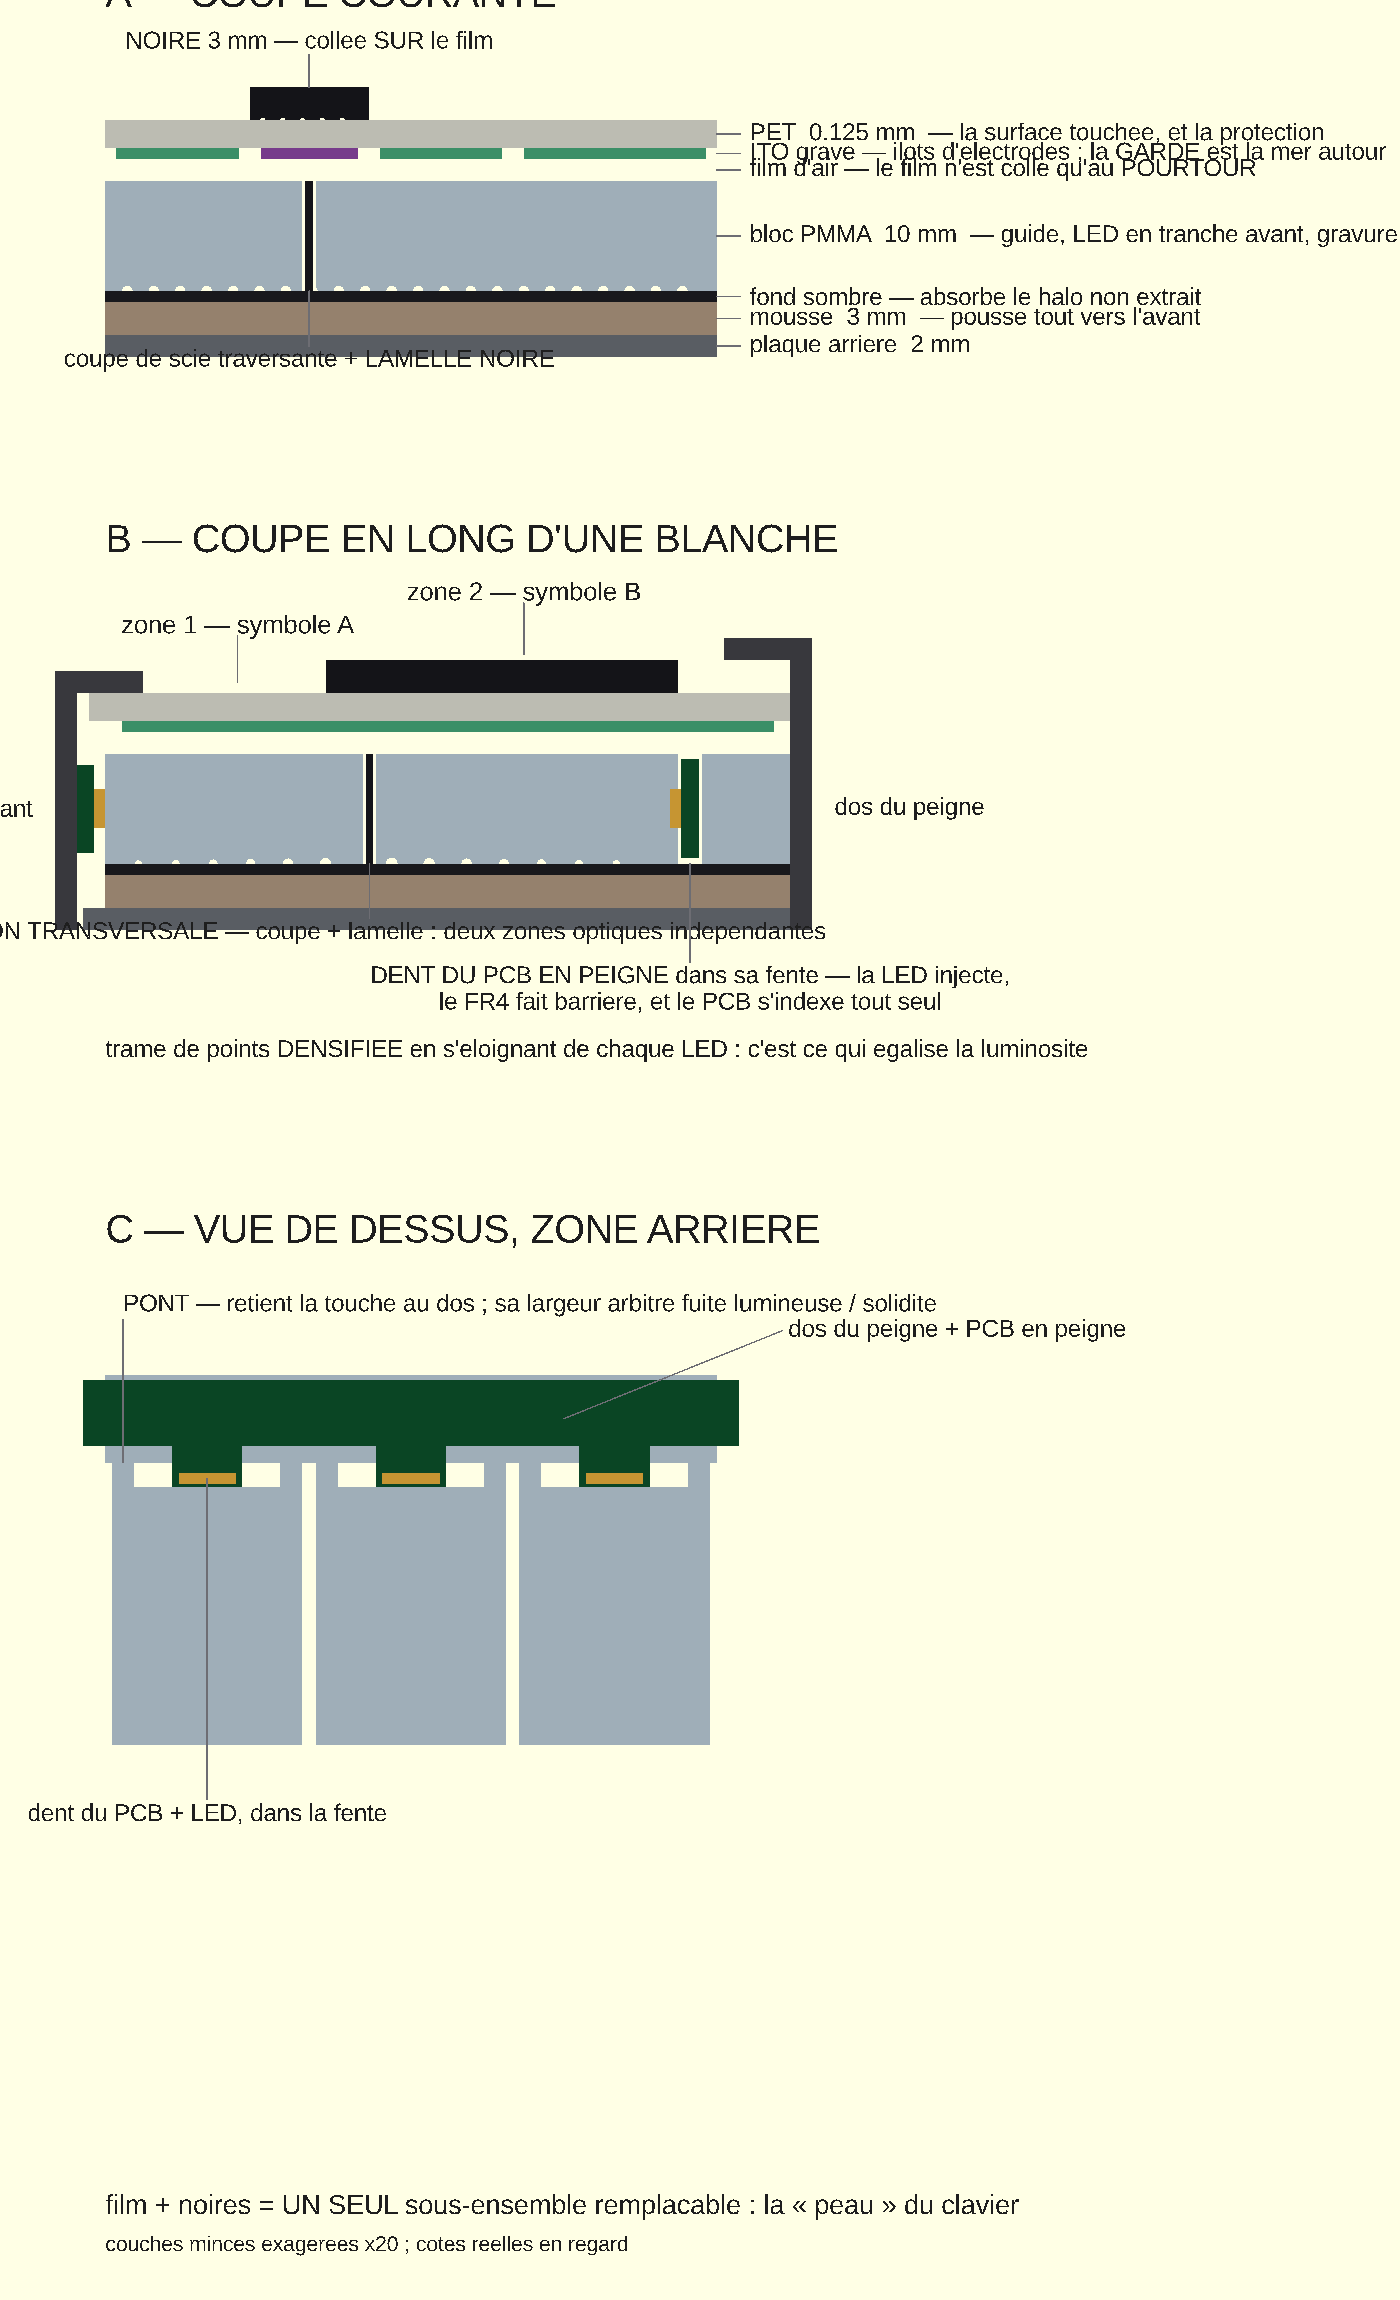
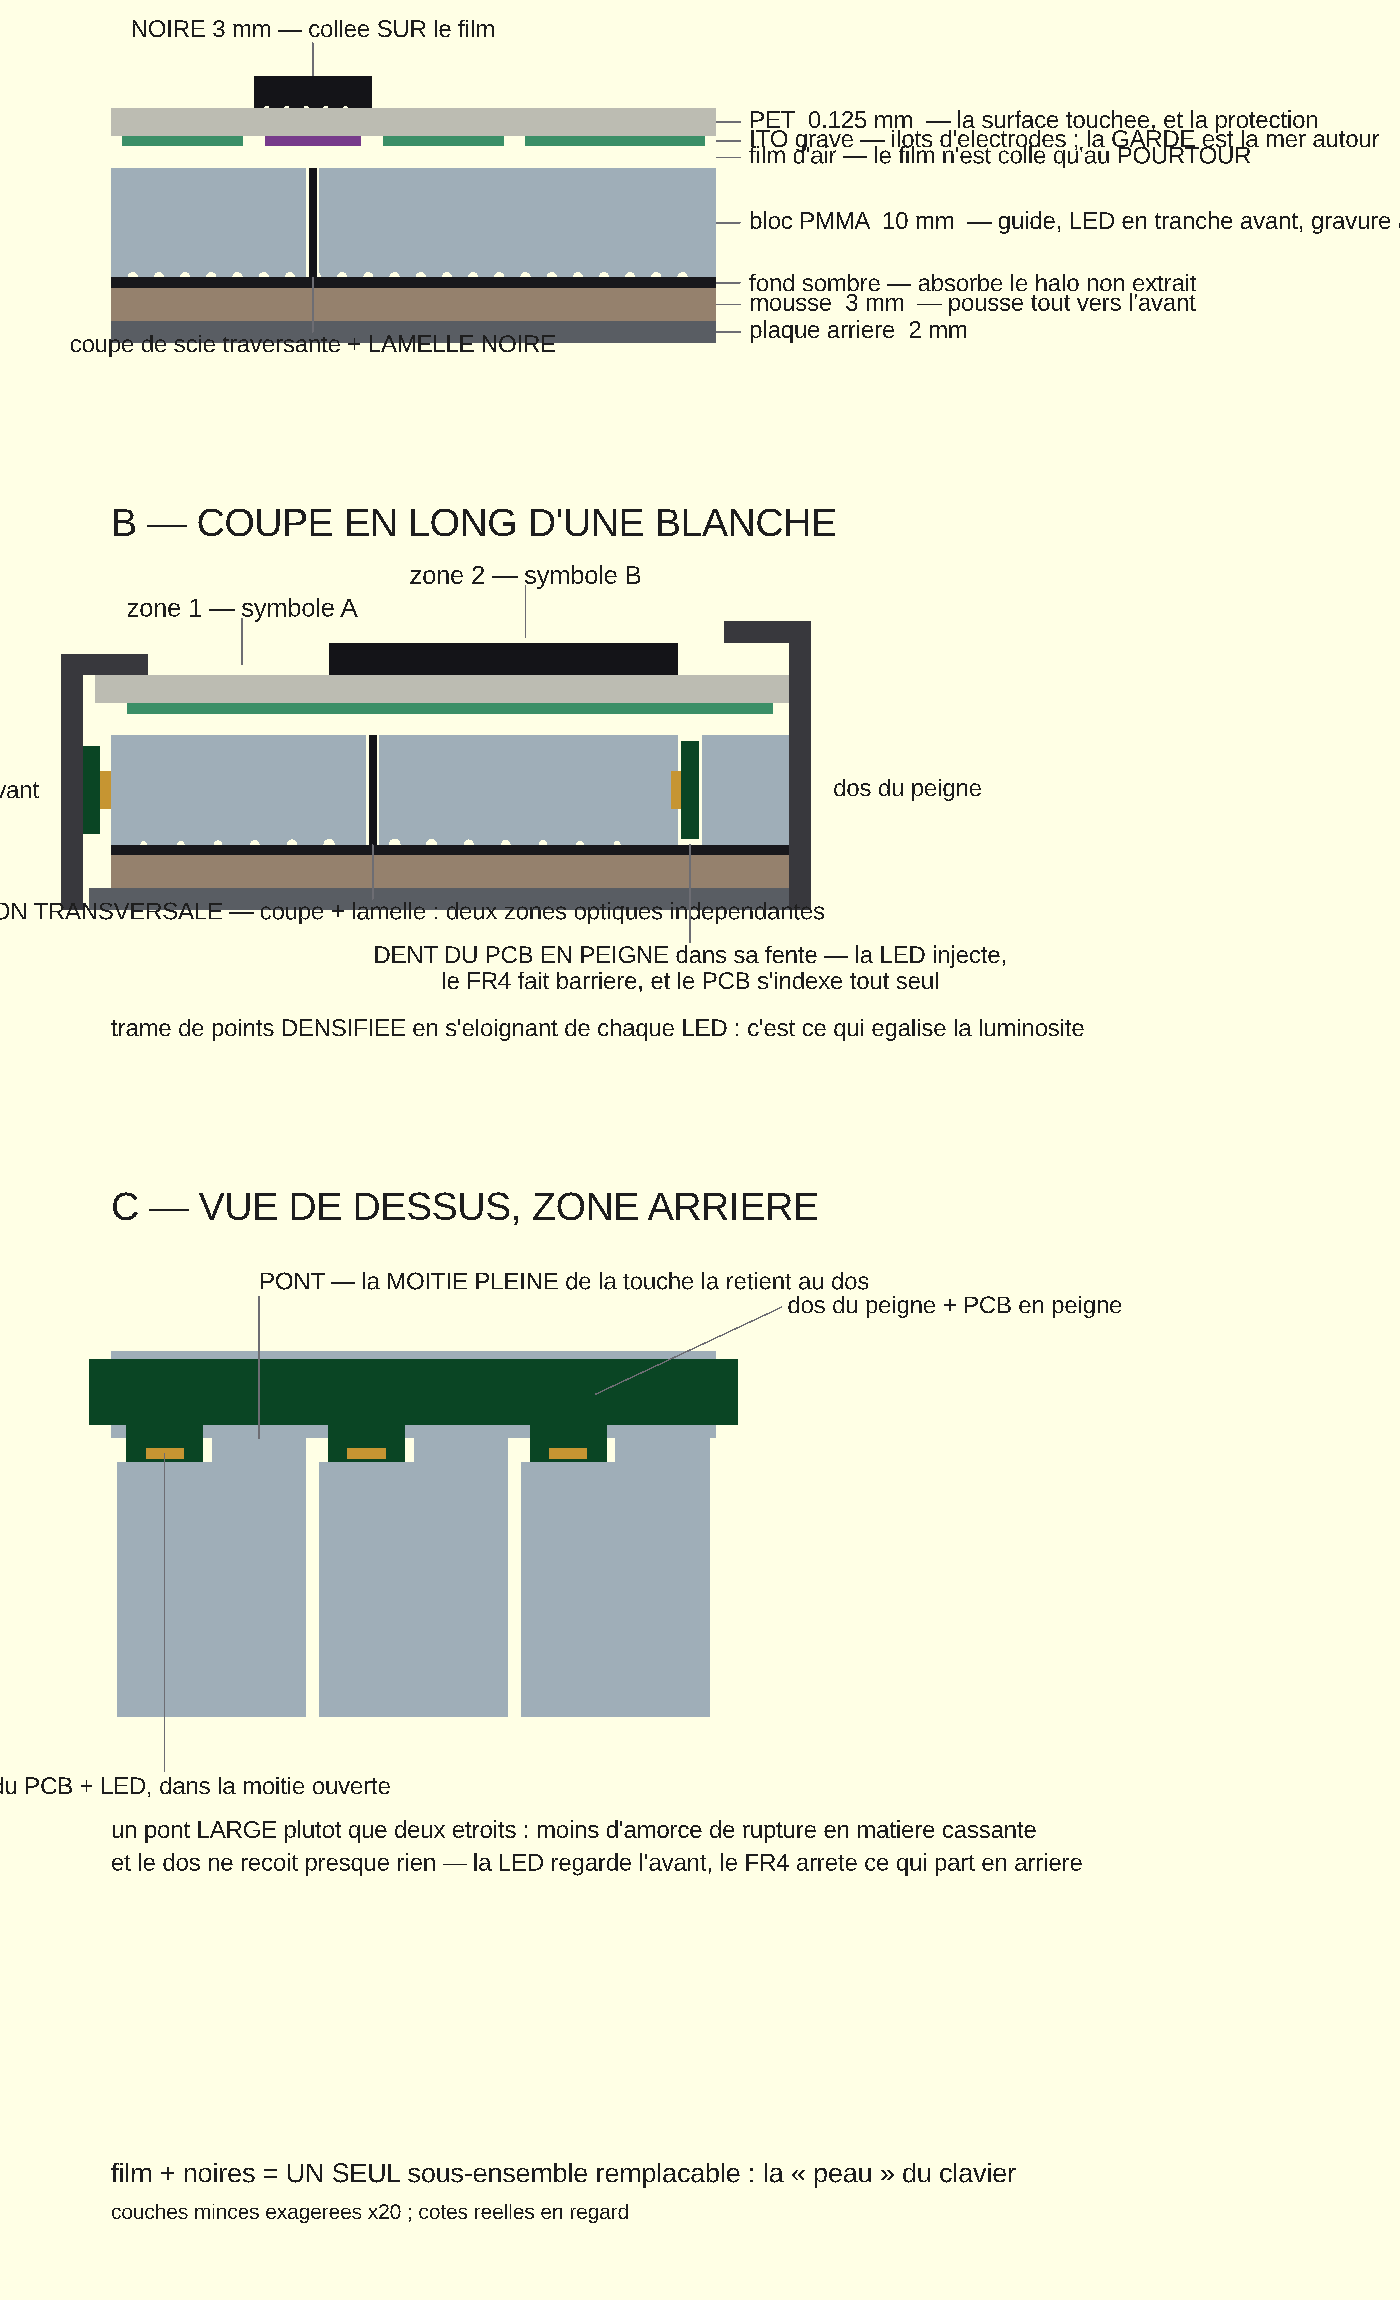
Méca : la fente occupe la moitié de la touche — un seul pont large
Correction de géométrie : la fente qui reçoit la dent du PCB ne traverse pas
presque toute la largeur avec deux petits ponts latéraux, elle occupe LA MOITIÉ
de la touche. L'autre moitié reste pleine et forme UN SEUL PONT LARGE.

Mécaniquement bien meilleur : moins de concentration de contrainte qu'avec deux
ponts étroits, ce qui compte en matière cassante. Et la dent du PCB, désormais
large de ~9 mm, a la place d'accueillir sa LED et ses pistes sans risquer de
casser à l'insertion.

L'objection optique ne tient pas : le dos ne reçoit presque rien, la LED regarde
l'avant et le FR4 arrête ce qui part en arrière. Le pont large ne laisse donc
passer qu'une lumière qui n'existe quasiment pas.

diff --git a/mechanical/README.md b/mechanical/README.md
@@ -270,10 +270,18 @@ Trois fonctions pour une pièce :
 - **le FR4 fait la barrière optique** dans la zone du dos — vernis épargne noir,
   il remplace la lamelle à cet endroit.
 
-Deux cotes à fixer : la **largeur de fente**, imposée par le PCB (1,6 mm + jeu,
-soit ~2,2), et la **largeur des ponts**, qui arbitre entre fuite lumineuse et
-solidité. Congés et trous d'arrêt au pied des ponts — ce sont des concentrations
-de contrainte dans une matière cassante.
+**La fente occupe la MOITIÉ de la touche**, l'autre moitié restant pleine : **un
+seul pont large** plutôt que deux étroits. Moins d'amorce de rupture dans une
+matière cassante, et la dent du PCB — près de 9 mm de large — a la place d'y
+loger sa LED et ses pistes.
+
+L'objection optique ne tient pas : **le dos ne reçoit presque rien**. La LED est
+dans la fente, tournée vers l'avant, et le FR4 derrière elle arrête ce qui
+partirait en arrière. Le pont large ne laisse donc passer qu'une lumière qui
+n'existe quasiment pas.
+
+Cote à fixer : la **profondeur de fente** (épaisseur du PCB + jeu d'insertion,
+~2,2 mm). Congés au pied du pont — c'est là que ça casserait.
 
 > **Point dur restant : le repérage.** Les traits de gravure de l'ITO doivent
 > tomber au-dessus des coupes de scie, à mieux de 0,5 mm sur 300 mm. Ce n'est pas
